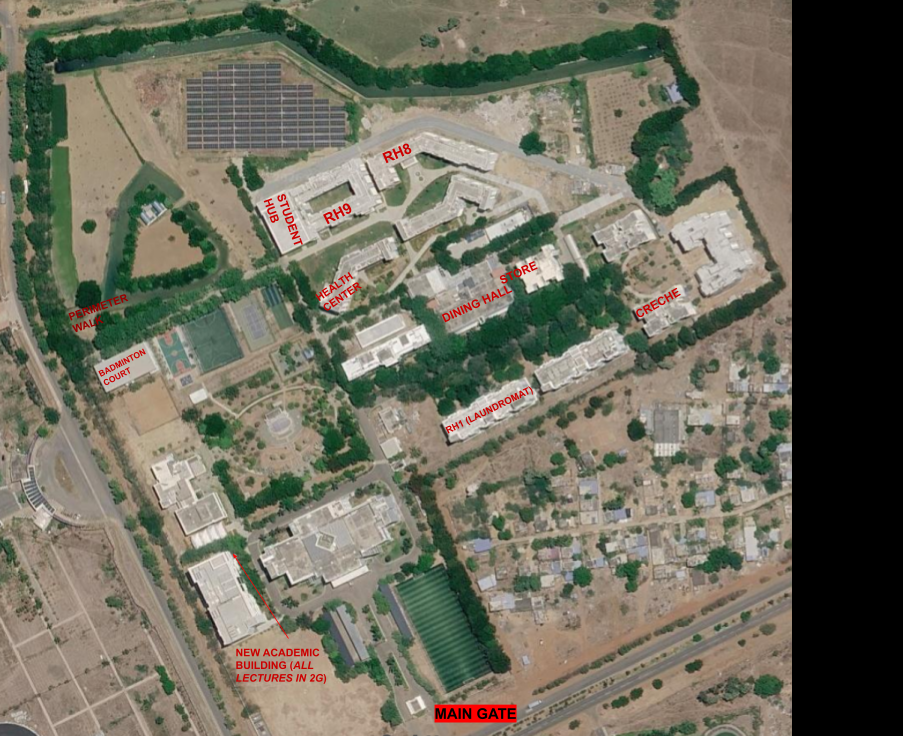
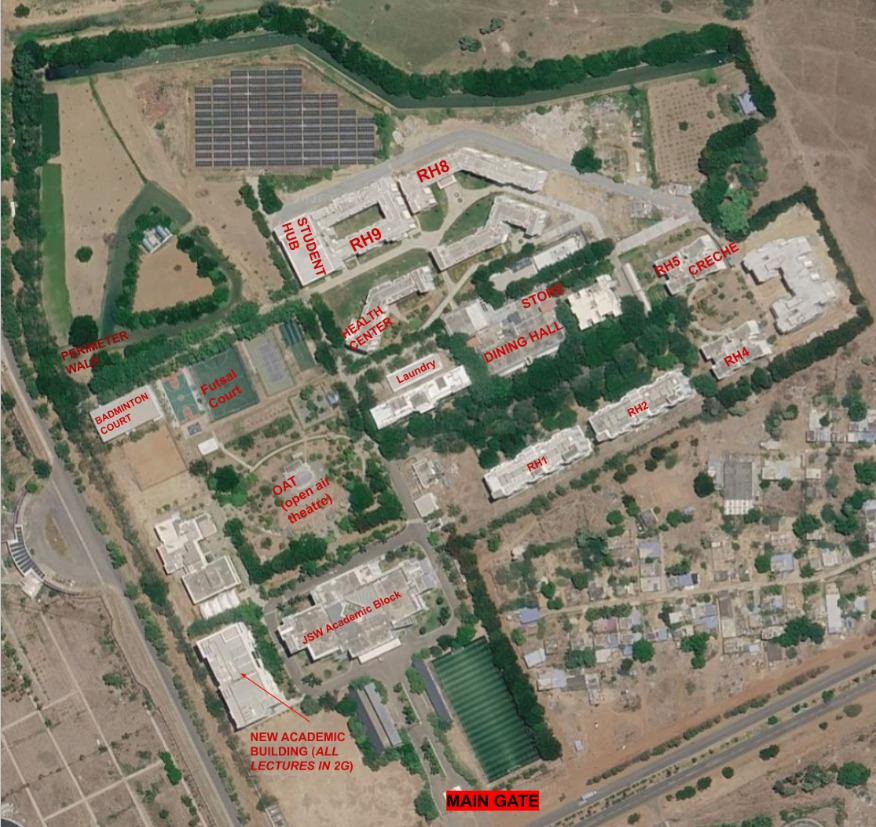
Update microsite and image

diff --git a/microsite.html b/microsite.html
@@ -536,6 +536,11 @@ footer p { font-size: 12px; color: var(--text-secondary); }
 <div class="icard">
 <div class="irow"><i class="ti ti-car"></i><div><div class="irow-lbl">From Chennai via NH16</div><div class="irow-val">Via Chennai–Kolkata Highway. Travel time is 1.5–2 hours. Taxis and private cars are readily available.</div></div></div>
 </div>
+<span class="slabel">Route Map (Chennai → Krea)</span>
+<div class="icard" style="padding: 12px; text-align: center;">
+<img src="map.png" alt="Directions from Chennai to Krea University" style="width: 100%; max-width: 600px; height: auto; border-radius: var(--radius-md); border: 0.5px solid var(--border);" />
+<div style="font-size: 12px; color: var(--text-secondary); margin-top: 8px;">Highway route and directions to Sri City campus</div>
+</div>
 <span class="slabel">Arrival at Sri City</span>
 <div class="icard">
 <div class="irow"><i class="ti ti-shield-check"></i><div><div class="irow-lbl">Controlled Entry</div><div class="irow-val">Sri City is a planned township with controlled entry. Visitors must present ID at the main gate. The Krea campus is ~10–15 minutes inside the township. Participants are encouraged to share arrival details in advance, particularly for late-night arrivals.</div></div></div>